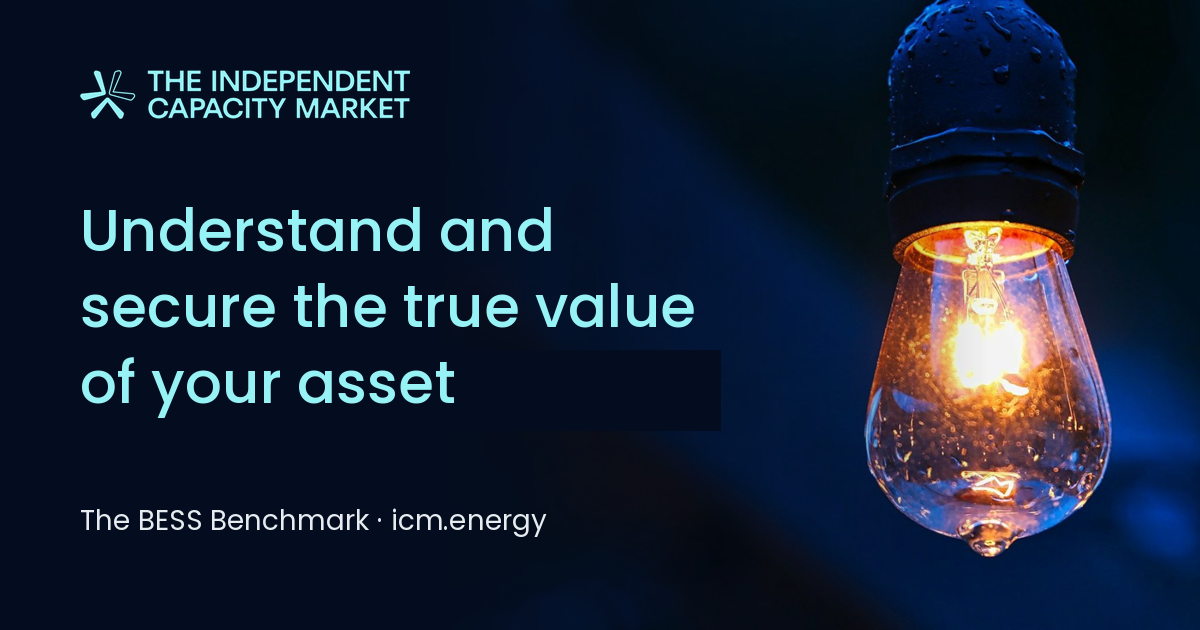
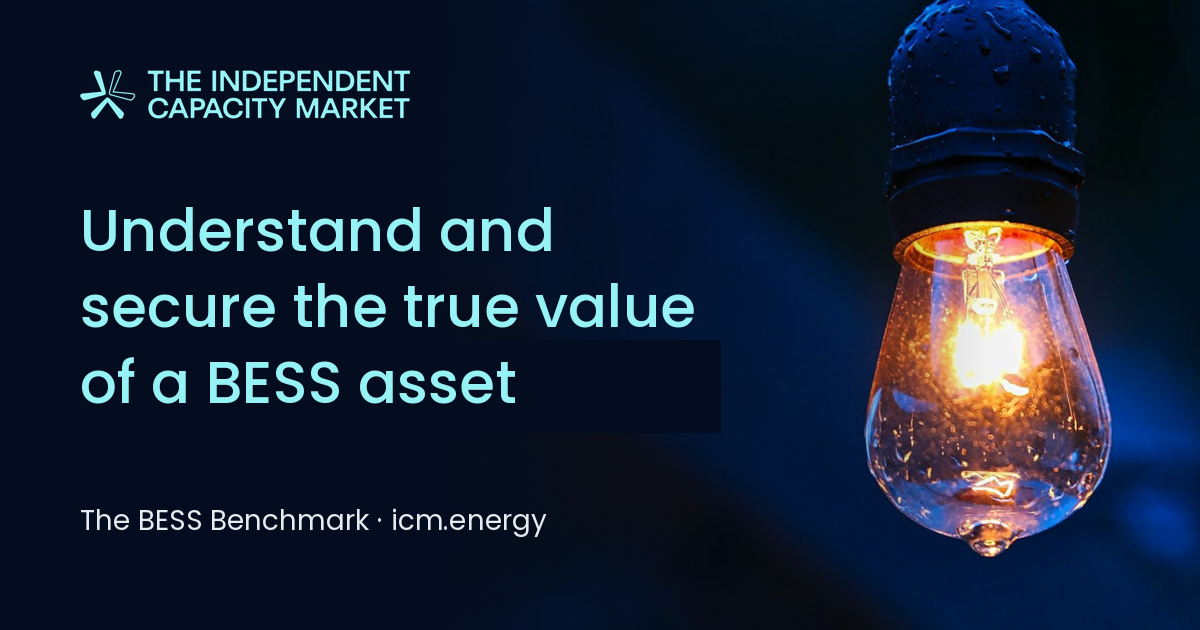
Solutions: original card texts; Proof of performance copy; remove 'you' from static copy
Claude-Session: https://claude.ai/code/session_012WVufrcvqibRwWTiJko1GV

Changed region(s): [[0.1233, 0.573, 0.4317, 0.6635], [0.5858, 0.5429, 0.6167, 0.573]]

diff --git a/faq/index.html b/faq/index.html
@@ -52,7 +52,7 @@
    "name": "How does one become a member?",
    "acceptedAnswer": {
     "@type": "Answer",
-    "text": "A 45-minute intake is our starting point. We use this time to discuss your context and objectives, understand which decisions the BESS Benchmark can help make and share what is needed to become and contribute as a member. New members share 6 months of historical data and decide how they will share revenue data each month. One route is for the optimizer to CC the ICM on their monthly performance report. Thereafter, the BESS Benchmark can be accessed at any time. The ICM will proactively reach out when the project performs poorly (&lt;80% of the BESS Benchmark for at least 6 months in the last 12 months)."
+    "text": "A 45-minute intake is our starting point. We use this time to discuss the context and objectives, understand which decisions the BESS Benchmark can help make and share what is needed to become and contribute as a member. New members share 6 months of historical data and decide how they will share revenue data each month. One route is for the optimizer to CC the ICM on their monthly performance report. Thereafter, the BESS Benchmark can be accessed at any time. The ICM will proactively reach out when the project performs poorly (&lt;80% of the BESS Benchmark for at least 6 months in the last 12 months)."
    }
   },
   {
@@ -84,7 +84,7 @@
    "name": "Can I share my results?",
    "acceptedAnswer": {
     "@type": "Answer",
-    "text": "Yes. You may share your BESS Benchmark freely. It's yours and may benefit conversations with your installer, adviser and financier."
+    "text": "Yes. Members may share their BESS Benchmark freely. It belongs to the member and may benefit conversations with installers, advisers and financiers."
    }
   },
   {
@@ -116,7 +116,7 @@
    "name": "Can I see which optimizer performs best?",
    "acceptedAnswer": {
     "@type": "Answer",
-    "text": "No. The BESS Benchmark does not show results per optimizer, or rankings of optimizers. You can compare your battery with peers that use the same or other optimizers, without names. Our BESS Broker proposition is designed to source and evaluate optimizers for you."
+    "text": "No. The BESS Benchmark does not show results per optimizer, or rankings of optimizers. Members can compare their battery with peers that use the same or other optimizers, without names. Our BESS Broker proposition is designed to source and evaluate optimizers for owners."
    }
   },
   {
@@ -163,15 +163,15 @@
       <details><summary>How does the BESS Benchmark help me?</summary><p>There are roughly 4 reasons people are keen to become and stay a member.</p><ol><li><b>Clarity on performance.</b> It removes doubt by comparing apples with apples and pears with pears.</li><li><b>Stronger claims.</b> Independent figures on what comparable batteries earned make insurance and warranty claims stronger.</li><li><b>A better optimizer contract.</b> A benchmark helps negotiate a better optimizer contract ("floor of at least 80% of the benchmark"; "right to terminate at 60% of the benchmark").</li><li><b>A realistic business case.</b> A basis for sizing the next project and a check on bankable forecasts. A benchmark of real data helps understand what a realistic business case could look like.</li></ol></details>
       <details><summary>How is this different from other benchmarks, forecasts and indices?</summary><p>Virtual batteries with fixed assumptions give a suboptimal view. The BESS Benchmark shows what assets actually delivered: real revenues from optimizers' statements, including grid restrictions, downtime and degradation. That makes it the reality check for those models.</p></details>
       <details><summary>Who becomes a member?</summary><p>Batteries in the Netherlands that an optimizer trades under a merchant contract. We focus on assets of 3 to 30 MW and decide per project in the intake.</p></details>
-      <details><summary>How does one become a member?</summary><p>A 45-minute intake is our starting point. We use this time to discuss your context and objectives, understand which decisions the BESS Benchmark can help make and share what is needed to become and contribute as a member. New members share 6 months of historical data and decide how they will share revenue data each month. One route is for the optimizer to CC the ICM on their monthly performance report. Thereafter, the BESS Benchmark can be accessed at any time. The ICM will proactively reach out when the project performs poorly (&lt;80% of the BESS Benchmark for at least 6 months in the last 12 months).</p></details>
+      <details><summary>How does one become a member?</summary><p>A 45-minute intake is our starting point. We use this time to discuss the context and objectives, understand which decisions the BESS Benchmark can help make and share what is needed to become and contribute as a member. New members share 6 months of historical data and decide how they will share revenue data each month. One route is for the optimizer to CC the ICM on their monthly performance report. Thereafter, the BESS Benchmark can be accessed at any time. The ICM will proactively reach out when the project performs poorly (&lt;80% of the BESS Benchmark for at least 6 months in the last 12 months).</p></details>
       <details><summary>What does the BESS Benchmark cost?</summary><p>Members pay a symbolic handling fee set at 0.5% of the gross revenues earned in that month. This number is excluding VAT. After referring 5 members, the fee drops to 0.1% for 6 months.</p></details>
       <details><summary>How long do I commit to the BESS Benchmark?</summary><p>New members are asked to stay at least 3 months. After that, membership renews monthly.</p></details>
       <details><summary>Who sees my data?</summary><p>Only the member and the ICM see the raw data. The ICM anonymizes submitted information before it adds it to the BESS Benchmark. We do not share individual member data with other members, or third parties. The BESS Benchmark itself is based on aggregated, anonymized information.</p></details>
-      <details><summary>Can I share my results?</summary><p>Yes. You may share your BESS Benchmark freely. It's yours and may benefit conversations with your installer, adviser and financier.</p></details>
+      <details><summary>Can I share my results?</summary><p>Yes. Members may share their BESS Benchmark freely. It belongs to the member and may benefit conversations with installers, advisers and financiers.</p></details>
       <details><summary>I advise or finance BESS assets. Can we work together?</summary><p>Yes. Reach out to <a href="mailto:ideles@icm.energy">ideles@icm.energy</a> to explore the options to work together and join our partner network.</p></details>
       <details><summary>How is the benchmark calculated?</summary><p>The BESS Benchmark divides revenues by MW and annualizes the result to show EUR per MW per year. Several filters allow members to compare batteries with a similar duration and set-up. Unavailable hours are excluded (maintenance, fault). Results are preliminary for 3 months, anticipating potential corrections.</p></details>
       <details><summary>Why do BESS assets earn differently?</summary><p>Various factors restrict the full earnings potential of a battery: (i) the battery itself (e.g., round-trip efficiency, minimum/maximum state of charge) and its local set-up (e.g., size of the grid connection, congestion contract), (ii) the markets it is active in and (iii) maintenance and malfunctions are the most commonly mentioned factors.</p></details>
-      <details><summary>Can I see which optimizer performs best?</summary><p>No. The BESS Benchmark does not show results per optimizer, or rankings of optimizers. You can compare your battery with peers that use the same or other optimizers, without names. Our BESS Broker proposition is designed to source and evaluate optimizers for you.</p></details>
+      <details><summary>Can I see which optimizer performs best?</summary><p>No. The BESS Benchmark does not show results per optimizer, or rankings of optimizers. Members can compare their battery with peers that use the same or other optimizers, without names. Our BESS Broker proposition is designed to source and evaluate optimizers for owners.</p></details>
       <details><summary>Is the ICM independent?</summary><p>Yes. We do not own BESS assets. We are not an optimizer. Nor will we ever be. For more information about our governance, please reach out to <a href="mailto:ideles@icm.energy">ideles@icm.energy</a>.</p></details>
     </div>
     <div class="faq-cta"><p>Still have a question?</p><a class="btn btn-lilac" href="/#contact">Talk to us</a></div>

diff --git a/index.html b/index.html
@@ -3,13 +3,13 @@
 <head>
 <meta charset="UTF-8">
 <meta name="viewport" content="width=device-width, initial-scale=1">
-<title>BESS Benchmark: understand the true value of your battery | The ICM</title>
-<meta name="description" content="See how your battery compares, BESS-to-BESS, with comparable batteries in the Netherlands, and find a trusted optimizer when there's more to earn.">
+<title>BESS Benchmark: understand the true value of a BESS asset | The ICM</title>
+<meta name="description" content="See how a battery compares, BESS-to-BESS, with comparable batteries in the Netherlands, and find a trusted optimizer when there's more to earn.">
 <link rel="canonical" href="https://icm.energy/">
 <meta property="og:type" content="website">
 <meta property="og:url" content="https://icm.energy/">
-<meta property="og:title" content="Understand and secure the true value of your BESS asset">
-<meta property="og:description" content="See how your battery compares, BESS-to-BESS, with comparable batteries in the Netherlands, and find a trusted optimizer when there's more to earn.">
+<meta property="og:title" content="Understand and secure the true value of a BESS asset">
+<meta property="og:description" content="See how a battery compares, BESS-to-BESS, with comparable batteries in the Netherlands, and find a trusted optimizer when there's more to earn.">
 <meta property="og:image" content="https://icm.energy/assets/og-image.png">
 <meta property="og:site_name" content="The Independent Capacity Market">
 <meta name="twitter:card" content="summary_large_image">
@@ -49,7 +49,7 @@
    },
    "areaServed": "NL",
    "serviceType": "Battery energy storage revenue benchmark",
-   "description": "See how your battery compares, BESS-to-BESS, with comparable batteries in the Netherlands, and find a trusted optimizer when there's more to earn."
+   "description": "See how a battery compares, BESS-to-BESS, with comparable batteries in the Netherlands, and find a trusted optimizer when there's more to earn."
   }
  ]
 }
@@ -77,8 +77,8 @@
 
     <div class="hero" id="main">
       <div>
-        <h1>Understand and<br>secure the true value<br>of your asset</h1>
-        <p class="lead">For owners with a nagging sense their BESS could earn more. See how your asset compares, BESS-to-BESS, and find a trusted optimizer when there's more to earn.</p>
+        <h1>Understand and<br>secure the true value<br>of a BESS asset</h1>
+        <p class="lead">For owners with a nagging sense their BESS could earn more. See how an asset compares, BESS-to-BESS, and find a trusted optimizer when there's more to earn.</p>
         <div class="hero-ctas">
           <a class="btn btn-lilac" href="#contact">Talk to us</a>
           <a class="btn btn-outline" href="#demo">How it works</a>
@@ -96,7 +96,7 @@
     <div class="story" id="calculator" aria-live="polite">
       <p class="story-h">It's a waste to miss out on <b class="out" id="s-missed">EUR 555,000</b> a year.</p>
       <p class="story-p">A similar BESS asset, same size and setup, can deliver <a class="story-link" href="https://www.flower.se/insights/case/ra-energy-switch-optimizer/" target="_blank" rel="noopener">30% more revenue</a>. A <label class="pill"><input class="in" id="s-mw" type="number" min="1" max="500" step="1" value="10" aria-label="Project size in MW"><svg class="pen" viewBox="0 0 16 16" aria-hidden="true"><path d="M11.5 2.5l2 2L6 12l-2.8.8L4 10z" fill="none" stroke="currentColor" stroke-width="1.5" stroke-linejoin="round"/></svg></label> MW project could have earned <b class="out" id="s-peer">EUR 240.5k</b> per MW per year, instead of the EUR <label class="pill"><input class="in" id="s-rev" type="number" min="1" max="1000" step="1" value="185" aria-label="Revenue it delivered, in thousand euro per MW per year"><svg class="pen" viewBox="0 0 16 16" aria-hidden="true"><path d="M11.5 2.5l2 2L6 12l-2.8.8L4 10z" fill="none" stroke="currentColor" stroke-width="1.5" stroke-linejoin="round"/></svg></label>k per MW per year it delivered. That's a missed opportunity of <b class="out" id="s-up">EUR 55.5k</b> per MW.</p>
-      <p class="hint"><svg class="pen" viewBox="0 0 16 16" aria-hidden="true"><path d="M11.5 2.5l2 2L6 12l-2.8.8L4 10z" fill="none" stroke="currentColor" stroke-width="1.5" stroke-linejoin="round"/></svg>Fill in your own numbers. Illustrative example.</p>
+      <p class="hint"><svg class="pen" viewBox="0 0 16 16" aria-hidden="true"><path d="M11.5 2.5l2 2L6 12l-2.8.8L4 10z" fill="none" stroke="currentColor" stroke-width="1.5" stroke-linejoin="round"/></svg>Enter figures to adjust. Illustrative example.</p>
     </div>
     <div class="cta-row"><a class="btn btn-lilac" href="#contact">Talk to us</a><a class="btn btn-outline" href="#demo">Learn more</a></div>
     </div>
@@ -138,8 +138,8 @@
         <div class="rule"><h3>Participation</h3><p>Members share their earnings every month, for instance by asking their optimizer to CC the ICM on its monthly performance report. The ICM anonymizes the data and adds it to the BESS Benchmark.</p></div>
         <div class="rule"><h3>Contribution</h3><p>Members pay a symbolic handling fee of 0.5% of what their BESS assets earned that month: EUR 75 for a project delivering EUR 15,000. After referring 5 members, the contribution drops to 0.1% for 6 months.</p></div>
         <div class="rule"><h3>Give-to-get</h3><p>Members only see the BESS Benchmark for the months to which they contributed. If no data is shared for August, September and October, the BESS Benchmark stays blank for those months.</p></div>
-        <div class="rule"><h3>Silent by design</h3><p>The Dutch saying "geen bericht, goed bericht" applies here. The ICM reaches out to members whose projects earn below 80% of the BESS Benchmark in at least 6 of the last 12 months. Otherwise, we prefer not to bother you.</p></div>
-        <div class="rule"><h3>Proof of performance</h3><p>The BESS Benchmark can serve as concrete input for negotiations and insurance/warranty claims ("comparable assets earned EUR X during downtime").</p></div>
+        <div class="rule"><h3>Silent by design</h3><p>The Dutch saying "geen bericht, goed bericht" applies here. The ICM reaches out to members whose projects earn below 80% of the BESS Benchmark in at least 6 of the last 12 months. Otherwise, the ICM stays quiet.</p></div>
+        <div class="rule"><h3>Proof of performance</h3><p>The BESS Benchmark can serve as concrete input for (re)financing conversations, contract negotiations with optimizers and insurance/warranty claims.</p></div>
     </div>
     <div class="cta-row" style="justify-content:flex-start;margin-top:36px">
       <a class="btn btn-lilac" href="#contact">Get started</a>
@@ -153,7 +153,7 @@
     <div class="section-head">
       <span class="eyebrow">About the ICM</span>
       <h2>Why an Independent Capacity Market matters</h2>
-      <p>We are not owners. We are not optimizers. Nor will we ever be.<br><br>We are an energy tech company, serving those who add capacity to the grid, but are in the dark on the potential of their assets. We compare BESS-to-BESS, introduce owners to optimizers and oversee the switch, so your battery keeps earning.</p>
+      <p>We are not owners. We are not optimizers. Nor will we ever be.<br><br>We are an energy tech company, serving those who add capacity to the grid, but are in the dark on the potential of their assets. We compare BESS-to-BESS, introduce owners to optimizers and oversee the switch, so batteries keep earning.</p>
       <div class="cta-row" style="justify-content:flex-start;margin-top:28px">
         <a class="btn btn-lilac" href="#contact">Talk to us</a>
         <a class="btn btn-outline" href="/solutions/">Our solutions</a>
@@ -169,7 +169,7 @@
     <div class="intro">
       <span class="eyebrow" style="color:var(--teal)">Talk to us</span>
       <h2>Book time with us</h2>
-      <p>Our starting point is a 45-minute call to understand your context and objectives.</p>
+      <p>Our starting point is a 45-minute call to understand context and objectives.</p>
       <p>Prefer email? <a href="mailto:ideles@icm.energy">ideles@icm.energy</a></p>
     </div>
     <div class="form fillout">

diff --git a/solutions/index.html b/solutions/index.html
@@ -41,7 +41,7 @@
 
     <div class="page-hero" id="main">
       <h1>Solutions</h1>
-      <p>The ICM works with owners, optimizers and partners. Four propositions give BESS owners an independent view on the true value of their asset and a trusted way to act on it.</p>
+      <p>The ICM works with owners, optimizers and partners. Four propositions give BESS owners an independent view on the true value of their asset.</p>
     </div>
   </div>
 </div>
@@ -52,8 +52,7 @@
       <div class="sol-body">
         <span class="tag">Open now</span>
         <h2>BESS Benchmark</h2>
-        <p class="sol-lead">Compare your earnings BESS-to-BESS and understand if you're earning a lot, or too little.</p>
-        <p>Owners share their BESS revenues to access the benchmark, following a "give-to-get" principle: only the months that are shared can be seen. The benchmark divides the total earnings (EUR) by the total capacity (MW). Real data from real assets, anonymized.</p>
+        <p>Compare your earnings BESS-to-BESS and understand if you're earning a lot, or too little.</p>
         <div class="cta-row" style="justify-content:flex-start;margin-top:22px"><a class="btn btn-lilac" href="/#demo">Try the demo</a><a class="btn btn-outline" href="/faq/">Read the FAQ</a></div>
       </div>
     </article>
@@ -62,8 +61,7 @@
       <div class="sol-body">
         <a class="tag soft" href="/#contact">Join the waitlist</a>
         <h2>BESS Backtest</h2>
-        <p class="sol-lead">Understand the drivers of the capture rate.</p>
-        <p>A deep dive into the full potential of complex, co-located set-ups, looking at all constraints.</p>
+        <p>Understand the drivers of the capture rate. A deep dive into the full potential of complex, co-located set-ups.</p>
         <div class="cta-row" style="justify-content:flex-start;margin-top:22px"><a class="btn btn-lilac" href="/#contact">Join the waitlist</a></div>
       </div>
     </article>
@@ -72,8 +70,7 @@
       <div class="sol-body">
         <a class="tag soft" href="/#contact">Join the waitlist</a>
         <h2>BESS Broker</h2>
-        <p class="sol-lead">Outsource the search for a trusted optimizer.</p>
-        <p>Owners complete a single form that captures most, if not all, that optimizers need to make an offer. The ICM runs a standardized process to source, evaluate and select a trusted optimizer that matches the owner, the project and its financing needs.</p>
+        <p>Outsource the search for a trusted optimizer. One form, a standardised process and terms banks appreciate.</p>
         <div class="cta-row" style="justify-content:flex-start;margin-top:22px"><a class="btn btn-lilac" href="/#contact">Join the waitlist</a></div>
       </div>
     </article>
@@ -82,8 +79,7 @@
       <div class="sol-body">
         <a class="tag soft" href="/#contact">Join the waitlist</a>
         <h2>BESS Bridge</h2>
-        <p class="sol-lead">Switch optimizers without going dark.</p>
-        <p>The ICM integrates projects into the portfolio of an optimizer. Owners allow the ICM to connect with their local software (EMS, MSP), and the API platform connects optimizers with local infrastructure.</p>
+        <p>Switch optimizers without going dark. Our API platform connects optimizers with local infra.</p>
         <div class="cta-row" style="justify-content:flex-start;margin-top:22px"><a class="btn btn-lilac" href="/#contact">Join the waitlist</a></div>
       </div>
     </article>

diff --git a/resources/index.html b/resources/index.html
@@ -40,14 +40,14 @@
 
     <div class="page-hero" id="main">
       <h1>Resources</h1>
-      <p>You'll find all Independent Capacity Market resources below, including documents and brand assets.</p>
+      <p>All Independent Capacity Market resources are listed below, including documents and brand assets.</p>
     </div>
   </div>
 </div>
 <main class="res">
   <section class="wrap res-sec">
     <h2>Documents</h2>
-    <p class="res-lead">Find answers to common questions about the BESS Benchmark, or read our API documents. Can't find what you need? Just ask us.</p>
+    <p class="res-lead">Find answers to common questions about the BESS Benchmark, or read our API documents. Anything missing? Just ask.</p>
     <div class="res-cards">
       <div class="res-card"><span>Access our API documents here</span><a class="btn btn-lilac" href="https://docs.icm.energy/" target="_blank" rel="noopener">Access →</a></div>
       <div class="res-card"><span>BESS Benchmark FAQ</span><a class="btn btn-lilac" href="/faq/">Read →</a></div>
@@ -55,7 +55,7 @@
   </section>
   <section class="wrap res-sec">
     <h2>Brand assets</h2>
-    <p class="res-lead">Download the official brand assets of the ICM. Use these resources to ensure a consistent and professional representation of the ICM in all your designs and communications.</p>
+    <p class="res-lead">Download the official brand assets of the ICM. Use these resources to ensure a consistent and professional representation of the ICM in all designs and communications.</p>
     <div class="res-cards">
       <div class="res-card"><span>Logos</span><a class="btn btn-lilac" href="mailto:ideles@icm.energy?subject=ICM%20logos">Request →</a></div>
       <div class="res-card"><span>Images</span><a class="btn btn-lilac" href="mailto:ideles@icm.energy?subject=ICM%20images">Request →</a></div>

diff --git a/company/index.html b/company/index.html
@@ -104,7 +104,7 @@
     <h2 class="co-big">A more equitable grid.<span>Do work that matters with people who care.</span></h2>
     <hr>
     <h3>Current open roles:</h3>
-    <p class="co-open">You're welcome to submit an open application including your CV and what you'd want to achieve at the ICM to <a href="mailto:ideles@icm.energy">ideles@icm.energy</a>.</p>
+    <p class="co-open">Open applications are welcome, including a CV and a description of what the applicant wants to achieve at the ICM, to <a href="mailto:ideles@icm.energy">ideles@icm.energy</a>.</p>
     <ul class="co-roles">
         <li><span><b>Founders Associate</b><em>Amsterdam</em></span><a class="btn btn-lilac" href="/?role=Founders%20Associate#contact">Apply →</a></li>
         <li><span><b>Commercial Lead</b><em>Amsterdam</em></span><a class="btn btn-lilac" href="/?role=Commercial%20Lead#contact">Apply →</a></li>

diff --git a/_build/build.py b/_build/build.py
@@ -14,17 +14,17 @@ LINKEDIN = 'https://www.linkedin.com/in/idel%C3%A8s-kaandorp/'
 T = {
  'en': dict(
   lang='en', base='/', other='/nl/', other_label='NL', other_lang='nl', other_name='Nederlands',
-  title="BESS Benchmark: understand the true value of your battery | The ICM",
-  desc="See how your battery compares, BESS-to-BESS, with comparable batteries in the Netherlands, and find a trusted optimizer when there's more to earn.",
-  og_title="Understand and secure the true value of your BESS asset",
+  title="BESS Benchmark: understand the true value of a BESS asset | The ICM",
+  desc="See how a battery compares, BESS-to-BESS, with comparable batteries in the Netherlands, and find a trusted optimizer when there's more to earn.",
+  og_title="Understand and secure the true value of a BESS asset",
   skip='Skip to content', nav_how='How it works', nav_faq='FAQ', nav_about='About', talk='Talk to us', menu='Main',
   eyebrow='BESS Benchmark',
-  h1_a='Understand and secure', h1_b='the true value of your asset',
-  lead='For owners with a nagging sense their BESS could earn more. See how your asset compares, BESS-to-BESS, and find a trusted optimizer when there\'s more to earn.',
+  h1_a='Understand and secure', h1_b='the true value of a BESS asset',
+  lead='For owners with a nagging sense their BESS could earn more. See how an asset compares, BESS-to-BESS, and find a trusted optimizer when there\'s more to earn.',
   book='Talk to us', start='Get started', more='Learn more', how_link='How it works',
   chart_title='Project score: 87% of the peer benchmark', chart_sub='EUR per MW per year, by month · gross revenue',
   chart_aria="Illustrative chart: a project's monthly revenue per MW compared with the peer benchmark",
-  months=['Oct','Dec','Feb','Apr','Jun','Aug'], chart_you='Your project', chart_peer='Peer benchmark (≥ 5 assets, ≥ 3 organisations)',
+  months=['Oct','Dec','Feb','Apr','Jun','Aug'], chart_you='This project', chart_peer='Peer benchmark (≥ 5 assets, ≥ 3 organisations)',
   chart_note='Illustrative example with fictional data.',
   why_eyebrow='Why it matters', why_h='BESS assets deliver vastly different results',
   why_p='Independent information is missing as long as no one works together.',
@@ -37,36 +37,36 @@ T = {
    ('Participation', 'Members share their earnings every month, for instance by asking their optimizer to CC the ICM on its monthly performance report. The ICM anonymizes the data and adds it to the BESS Benchmark.'),
    ('Contribution', 'Members pay a symbolic handling fee of 0.5% of what their BESS assets earned that month: EUR 75 for a project delivering EUR 15,000. After referring 5 members, the contribution drops to 0.1% for 6 months.'),
    ('Give-to-get', 'Members only see the BESS Benchmark for the months to which they contributed. If no data is shared for August, September and October, the BESS Benchmark stays blank for those months.'),
-   ('Silent by design', 'The Dutch saying "geen bericht, goed bericht" applies here. The ICM reaches out to members whose projects earn below 80% of the BESS Benchmark in at least 6 of the last 12 months. Otherwise, we prefer not to bother you.'),
-   ('Proof of performance', 'The BESS Benchmark can serve as concrete input for negotiations and insurance/warranty claims ("comparable assets earned EUR X during downtime").'),
+   ('Silent by design', 'The Dutch saying "geen bericht, goed bericht" applies here. The ICM reaches out to members whose projects earn below 80% of the BESS Benchmark in at least 6 of the last 12 months. Otherwise, the ICM stays quiet.'),
+   ('Proof of performance', 'The BESS Benchmark can serve as concrete input for (re)financing conversations, contract negotiations with optimizers and insurance/warranty claims.'),
   ],
   shot_alt='The BESS Benchmark app: project score, revenue per MW and the benchmark over the last 12 months (fictional example data)',
-  story_note='Fill in your own numbers. Illustrative example.',
-  calc_eyebrow='Calculator', calc_h='What is your missed opportunity?',
-  calc_p='Enter your battery and what it earns today. See what you could have earned if it had matched comparable batteries.',
-  calc_mw='Battery size', calc_months='Period', calc_months_unit='months', calc_rev='Your revenue today',
-  calc_assume='Assumption: comparable batteries earned 30% more per MW. Illustrative – the BESS Benchmark shows your real gap.',
-  calc_you='Your battery', calc_bench='Comparable batteries', calc_missed='Missed opportunity over 6 months', calc_cta='Find out your real gap',
+  story_note='Enter figures to adjust. Illustrative example.',
+  calc_eyebrow='Calculator', calc_h='What is the missed opportunity?',
+  calc_p='Enter the battery size and what it earns today, to see what it could have earned if it had matched comparable batteries.',
+  calc_mw='Battery size', calc_months='Period', calc_months_unit='months', calc_rev='Current revenue',
+  calc_assume='Assumption: comparable batteries earned 30% more per MW. Illustrative – the BESS Benchmark shows the real gap.',
+  calc_you='This battery', calc_bench='Comparable batteries', calc_missed='Missed opportunity over 6 months', calc_cta='Find the real gap',
   demo_eyebrow='How we can work together', demo_h='The BESS Benchmark', demo_p='Clarity is our goal. The ICM collects and anonymizes monthly BESS revenues for a BESS-to-BESS comparison.', demo_note='Fictional example data.',
   demo_btn='Try the interactive demo', demo_title='BESS Benchmark interactive demo (fictional data)', demo_new='Open in a new tab',
-  shot_cap='The BESS Benchmark is a dynamic view on the EUR per MW per year of your assets and those of our other members. Fictional example data.',
+  shot_cap='The BESS Benchmark is a dynamic view on the EUR per MW per year across the assets of all members. Fictional example data.',
   faq_link='Read the FAQ',
   real_eyebrow='Real data, not a model', real_h='Why real revenues beat a simulated index',
-  idx_h='A simulated revenue index', idx=['Models a theoretical battery with fixed assumptions','Assumes a full grid connection and no downtime','Cannot tell you how your optimizer performs comparatively'],
-  ours_h='The BESS Benchmark', ours=['Is based on realised revenues, as members received them from their optimizers','Anticipates restrictions such as CSC terms, TDTR limits and downtime','Compares your battery with batteries set up like yours'],
+  idx_h='A simulated revenue index', idx=['Models a theoretical battery with fixed assumptions','Assumes a full grid connection and no downtime','Cannot show how an optimizer performs comparatively'],
+  ours_h='The BESS Benchmark', ours=['Is based on realised revenues, as members received them from their optimizers','Anticipates restrictions such as CSC terms, TDTR limits and downtime','Compares a battery with batteries set up alike'],
   about_eyebrow='About the ICM', about_h='Why an Independent Capacity Market matters',
-  about_p='We are not owners. We are not optimizers. Nor will we ever be.<br><br>We are an energy tech company, serving those who add capacity to the grid, but are in the dark on the potential of their assets. We compare BESS-to-BESS, introduce owners to optimizers and oversee the switch, so your battery keeps earning.',
+  about_p='We are not owners. We are not optimizers. Nor will we ever be.<br><br>We are an energy tech company, serving those who add capacity to the grid, but are in the dark on the potential of their assets. We compare BESS-to-BESS, introduce owners to optimizers and oversee the switch, so batteries keep earning.',
   roles='Open roles', careers='Careers',
   open_now='Open now', waitlist='Join the waitlist',
   p1=('BESS Benchmark',"Compare your earnings BESS-to-BESS and understand if you're earning a lot, or too little."),
-  p1b=('BESS Backtest','Understand the drivers of your capture rate. A deep dive into the full potential of complex, co-located set-ups.'),
+  p1b=('BESS Backtest','Understand the drivers of the capture rate. A deep dive into the full potential of complex, co-located set-ups.'),
   p2=('BESS Broker','Outsource the search for a trusted optimizer. One form, a standardised process and terms banks appreciate.'),
   p3=('BESS Bridge','Switch optimizers without going dark. Our API platform connects optimizers with local infra.'),
   contact_eyebrow='Talk to us', contact_h='Book time with us', contact_p='',
   prefer='Prefer email?', subject='BESS Benchmark intake request',
   f_name='Name', f_company='Company', f_email='Email', f_mw='Portfolio or project size in MW',
-  f_msg='Tell us a little bit about your context and objectives', f_ph='E.g., asset of 3-30 MW, trading revenues below expectations, interested in the BESS Benchmark',
-  f_submit='Send', f_fine='We use your details only to contact you about the ICM.', f_ok='Thank you – we will be in touch.',
+  f_msg='Context and objectives', f_ph='E.g., asset of 3-30 MW, trading revenues below expectations, interested in the BESS Benchmark',
+  f_submit='Send', f_fine='Details are used only to get in touch about the ICM.', f_ok='Thank you – we will be in touch.',
   foot_tag='The ICM brings clarity, trusted partners and continuity to those adding capacity to the grid.',
   founded='Founded by', foot_bench='Learn more', methodology='Methodology', contact='Contact',
   terms='Terms & Conditions', privacy='Privacy statement', disclaimer='Benchmark figures are outcome data as reported by optimizers, not advice.',
@@ -76,15 +76,15 @@ T = {
    ('How does the BESS Benchmark help me?', '<p>There are roughly 4 reasons people are keen to become and stay a member.</p><ol><li><b>Clarity on performance.</b> It removes doubt by comparing apples with apples and pears with pears.</li><li><b>Stronger claims.</b> Independent figures on what comparable batteries earned make insurance and warranty claims stronger.</li><li><b>A better optimizer contract.</b> A benchmark helps negotiate a better optimizer contract ("floor of at least 80% of the benchmark"; "right to terminate at 60% of the benchmark").</li><li><b>A realistic business case.</b> A basis for sizing the next project and a check on bankable forecasts. A benchmark of real data helps understand what a realistic business case could look like.</li></ol>'),
    ('How is this different from other benchmarks, forecasts and indices?', 'Virtual batteries with fixed assumptions give a suboptimal view. The BESS Benchmark shows what assets actually delivered: real revenues from optimizers\' statements, including grid restrictions, downtime and degradation. That makes it the reality check for those models.'),
    ('Who becomes a member?', 'Batteries in the Netherlands that an optimizer trades under a merchant contract. We focus on assets of 3 to 30 MW and decide per project in the intake.'),
-   ('How does one become a member?', 'A 45-minute intake is our starting point. We use this time to discuss your context and objectives, understand which decisions the BESS Benchmark can help make and share what is needed to become and contribute as a member. New members share 6 months of historical data and decide how they will share revenue data each month. One route is for the optimizer to CC the ICM on their monthly performance report. Thereafter, the BESS Benchmark can be accessed at any time. The ICM will proactively reach out when the project performs poorly (&lt;80% of the BESS Benchmark for at least 6 months in the last 12 months).'),
+   ('How does one become a member?', 'A 45-minute intake is our starting point. We use this time to discuss the context and objectives, understand which decisions the BESS Benchmark can help make and share what is needed to become and contribute as a member. New members share 6 months of historical data and decide how they will share revenue data each month. One route is for the optimizer to CC the ICM on their monthly performance report. Thereafter, the BESS Benchmark can be accessed at any time. The ICM will proactively reach out when the project performs poorly (&lt;80% of the BESS Benchmark for at least 6 months in the last 12 months).'),
    ('What does the BESS Benchmark cost?', 'Members pay a symbolic handling fee set at 0.5% of the gross revenues earned in that month. This number is excluding VAT. After referring 5 members, the fee drops to 0.1% for 6 months.'),
    ('How long do I commit to the BESS Benchmark?', 'New members are asked to stay at least 3 months. After that, membership renews monthly.'),
    ('Who sees my data?', 'Only the member and the ICM see the raw data. The ICM anonymizes submitted information before it adds it to the BESS Benchmark. We do not share individual member data with other members, or third parties. The BESS Benchmark itself is based on aggregated, anonymized information.'),
-   ('Can I share my results?', 'Yes. You may share your BESS Benchmark freely. It\'s yours and may benefit conversations with your installer, adviser and financier.'),
+   ('Can I share my results?', 'Yes. Members may share their BESS Benchmark freely. It belongs to the member and may benefit conversations with installers, advisers and financiers.'),
    ('I advise or finance BESS assets. Can we work together?', 'Yes. Reach out to <a href="mailto:ideles@icm.energy">ideles@icm.energy</a> to explore the options to work together and join our partner network.'),
    ('How is the benchmark calculated?', 'The BESS Benchmark divides revenues by MW and annualizes the result to show EUR per MW per year. Several filters allow members to compare batteries with a similar duration and set-up. Unavailable hours are excluded (maintenance, fault). Results are preliminary for 3 months, anticipating potential corrections.'),
    ('Why do BESS assets earn differently?', 'Various factors restrict the full earnings potential of a battery: (i) the battery itself (e.g., round-trip efficiency, minimum/maximum state of charge) and its local set-up (e.g., size of the grid connection, congestion contract), (ii) the markets it is active in and (iii) maintenance and malfunctions are the most commonly mentioned factors.'),
-   ('Can I see which optimizer performs best?', 'No. The BESS Benchmark does not show results per optimizer, or rankings of optimizers. You can compare your battery with peers that use the same or other optimizers, without names. Our BESS Broker proposition is designed to source and evaluate optimizers for you.'),
+   ('Can I see which optimizer performs best?', 'No. The BESS Benchmark does not show results per optimizer, or rankings of optimizers. Members can compare their battery with peers that use the same or other optimizers, without names. Our BESS Broker proposition is designed to source and evaluate optimizers for owners.'),
    ('Is the ICM independent?', 'Yes. We do not own BESS assets. We are not an optimizer. Nor will we ever be. For more information about our governance, please reach out to <a href="mailto:ideles@icm.energy">ideles@icm.energy</a>.'),
   ],
   terms_title='Terms & Conditions | The ICM', terms_h='Terms & Conditions',
@@ -292,7 +292,7 @@ def home(t):
 {nav(t, other)}
     <div class="hero" id="main">
       <div>
-        <h1>Understand and<br>secure the true value<br>of your asset</h1>
+        <h1>Understand and<br>secure the true value<br>of a BESS asset</h1>
         <p class="lead">{t['lead']}</p>
         <div class="hero-ctas">
           <a class="btn btn-lilac" href="#contact">{t['book']}</a>
@@ -379,7 +379,7 @@ def home(t):
     <div class="intro">
       <span class="eyebrow" style="color:var(--teal)">{t['contact_eyebrow']}</span>
       <h2>{t['contact_h']}</h2>
-      <p>Our starting point is a 45-minute call to understand your context and objectives.</p>
+      <p>Our starting point is a 45-minute call to understand context and objectives.</p>
       <p>{t['prefer']} <a href="mailto:{EMAIL}">{EMAIL}</a></p>
     </div>
     <div class="form fillout">
@@ -456,12 +456,12 @@ def page_shell(t, path, title, desc, hero, body, jsonld=None):
 def resources(t):
     hero = '''    <div class="page-hero" id="main">
       <h1>Resources</h1>
-      <p>You'll find all Independent Capacity Market resources below, including documents and brand assets.</p>
+      <p>All Independent Capacity Market resources are listed below, including documents and brand assets.</p>
     </div>'''
     body = f'''<main class="res">
   <section class="wrap res-sec">
     <h2>Documents</h2>
-    <p class="res-lead">Find answers to common questions about the BESS Benchmark, or read our API documents. Can't find what you need? Just ask us.</p>
+    <p class="res-lead">Find answers to common questions about the BESS Benchmark, or read our API documents. Anything missing? Just ask.</p>
     <div class="res-cards">
       <div class="res-card"><span>Access our API documents here</span><a class="btn btn-lilac" href="https://docs.icm.energy/" target="_blank" rel="noopener">Access →</a></div>
       <div class="res-card"><span>BESS Benchmark FAQ</span><a class="btn btn-lilac" href="/faq/">Read →</a></div>
@@ -469,7 +469,7 @@ def resources(t):
   </section>
   <section class="wrap res-sec">
     <h2>Brand assets</h2>
-    <p class="res-lead">Download the official brand assets of the ICM. Use these resources to ensure a consistent and professional representation of the ICM in all your designs and communications.</p>
+    <p class="res-lead">Download the official brand assets of the ICM. Use these resources to ensure a consistent and professional representation of the ICM in all designs and communications.</p>
     <div class="res-cards">
       <div class="res-card"><span>Logos</span><a class="btn btn-lilac" href="mailto:{EMAIL}?subject=ICM%20logos">Request →</a></div>
       <div class="res-card"><span>Images</span><a class="btn btn-lilac" href="mailto:{EMAIL}?subject=ICM%20images">Request →</a></div>
@@ -514,7 +514,7 @@ def company(t):
     <h2 class="co-big">A more equitable grid.<span>Do work that matters with people who care.</span></h2>
     <hr>
     <h3>Current open roles:</h3>
-    <p class="co-open">You're welcome to submit an open application including your CV and what you'd want to achieve at the ICM to <a href="mailto:{EMAIL}">{EMAIL}</a>.</p>
+    <p class="co-open">Open applications are welcome, including a CV and a description of what the applicant wants to achieve at the ICM, to <a href="mailto:{EMAIL}">{EMAIL}</a>.</p>
     <ul class="co-roles">
 {rows}
     </ul>
@@ -533,17 +533,13 @@ def solutions(t):
       'bridge': '<path d="M3 16c3-8 15-8 18 0M3 16v3M21 16v3M12 10v9M7.5 12v7M16.5 12v7" />',
     }
     items = [
-      ('benchmark', 'BESS Benchmark', True, "Compare your earnings BESS-to-BESS and understand if you're earning a lot, or too little.",
-       'Owners share their BESS revenues to access the benchmark, following a "give-to-get" principle: only the months that are shared can be seen. The benchmark divides the total earnings (EUR) by the total capacity (MW). Real data from real assets, anonymized.'),
-      ('backtest', 'BESS Backtest', False, 'Understand the drivers of the capture rate.',
-       'A deep dive into the full potential of complex, co-located set-ups, looking at all constraints.'),
-      ('broker', 'BESS Broker', False, 'Outsource the search for a trusted optimizer.',
-       'Owners complete a single form that captures most, if not all, that optimizers need to make an offer. The ICM runs a standardized process to source, evaluate and select a trusted optimizer that matches the owner, the project and its financing needs.'),
-      ('bridge', 'BESS Bridge', False, 'Switch optimizers without going dark.',
-       'The ICM integrates projects into the portfolio of an optimizer. Owners allow the ICM to connect with their local software (EMS, MSP), and the API platform connects optimizers with local infrastructure.'),
+      ('benchmark', 'BESS Benchmark', True, "Compare your earnings BESS-to-BESS and understand if you're earning a lot, or too little."),
+      ('backtest', 'BESS Backtest', False, 'Understand the drivers of the capture rate. A deep dive into the full potential of complex, co-located set-ups.'),
+      ('broker', 'BESS Broker', False, 'Outsource the search for a trusted optimizer. One form, a standardised process and terms banks appreciate.'),
+      ('bridge', 'BESS Bridge', False, 'Switch optimizers without going dark. Our API platform connects optimizers with local infra.'),
     ]
     cards = ''
-    for k, name, live, lead, body in items:
+    for k, name, live, body in items:
         tag = '<span class="tag">Open now</span>' if live else '<a class="tag soft" href="/#contact">Join the waitlist</a>'
         cta = '<a class="btn btn-lilac" href="/#demo">Try the demo</a><a class="btn btn-outline" href="/faq/">Read the FAQ</a>' if live else '<a class="btn btn-lilac" href="/#contact">Join the waitlist</a>'
         cards += f'''    <article class="sol" id="{k}">
@@ -551,7 +547,6 @@ def solutions(t):
       <div class="sol-body">
         {tag}
         <h2>{name}</h2>
-        <p class="sol-lead">{lead}</p>
         <p>{body}</p>
         <div class="cta-row" style="justify-content:flex-start;margin-top:22px">{cta}</div>
       </div>
@@ -566,7 +561,7 @@ def solutions(t):
 {nav(t, '/solutions/')}
     <div class="page-hero" id="main">
       <h1>Solutions</h1>
-      <p>The ICM works with owners, optimizers and partners. Four propositions give BESS owners an independent view on the true value of their asset and a trusted way to act on it.</p>
+      <p>The ICM works with owners, optimizers and partners. Four propositions give BESS owners an independent view on the true value of their asset.</p>
     </div>
   </div>
 </div>
